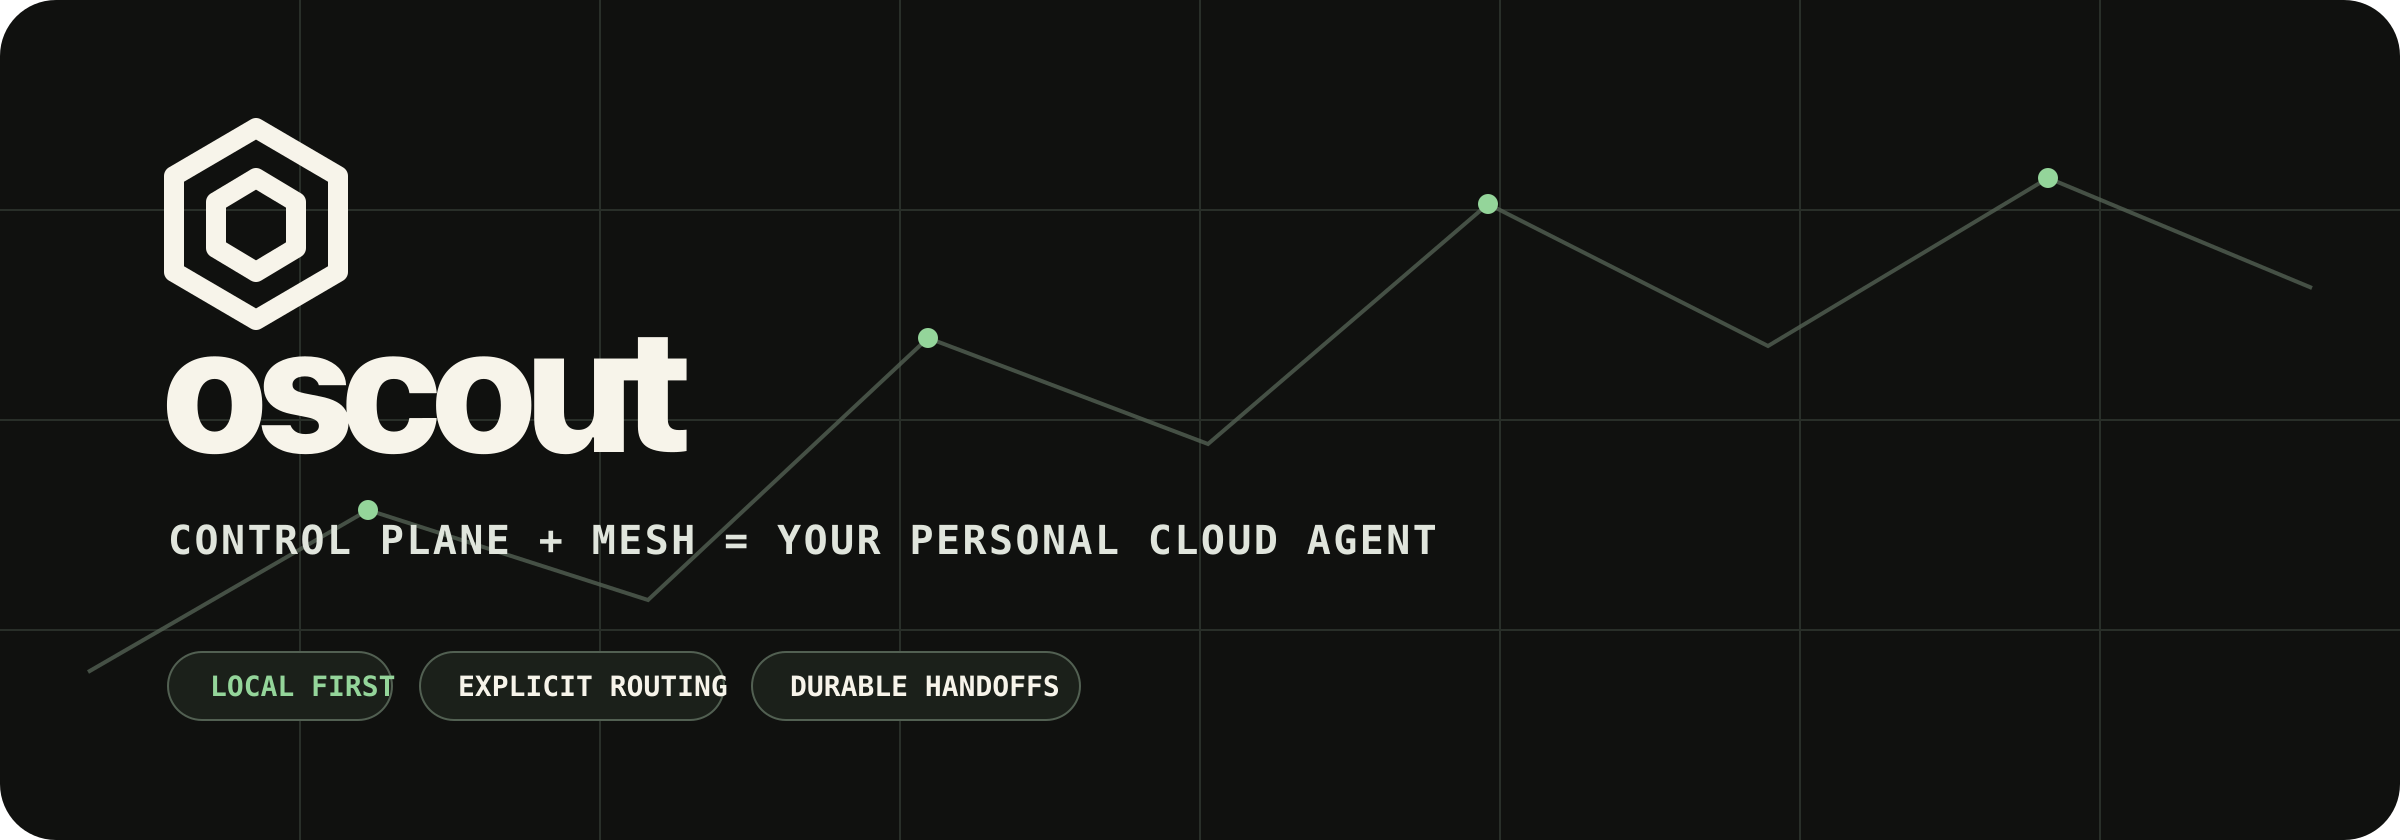
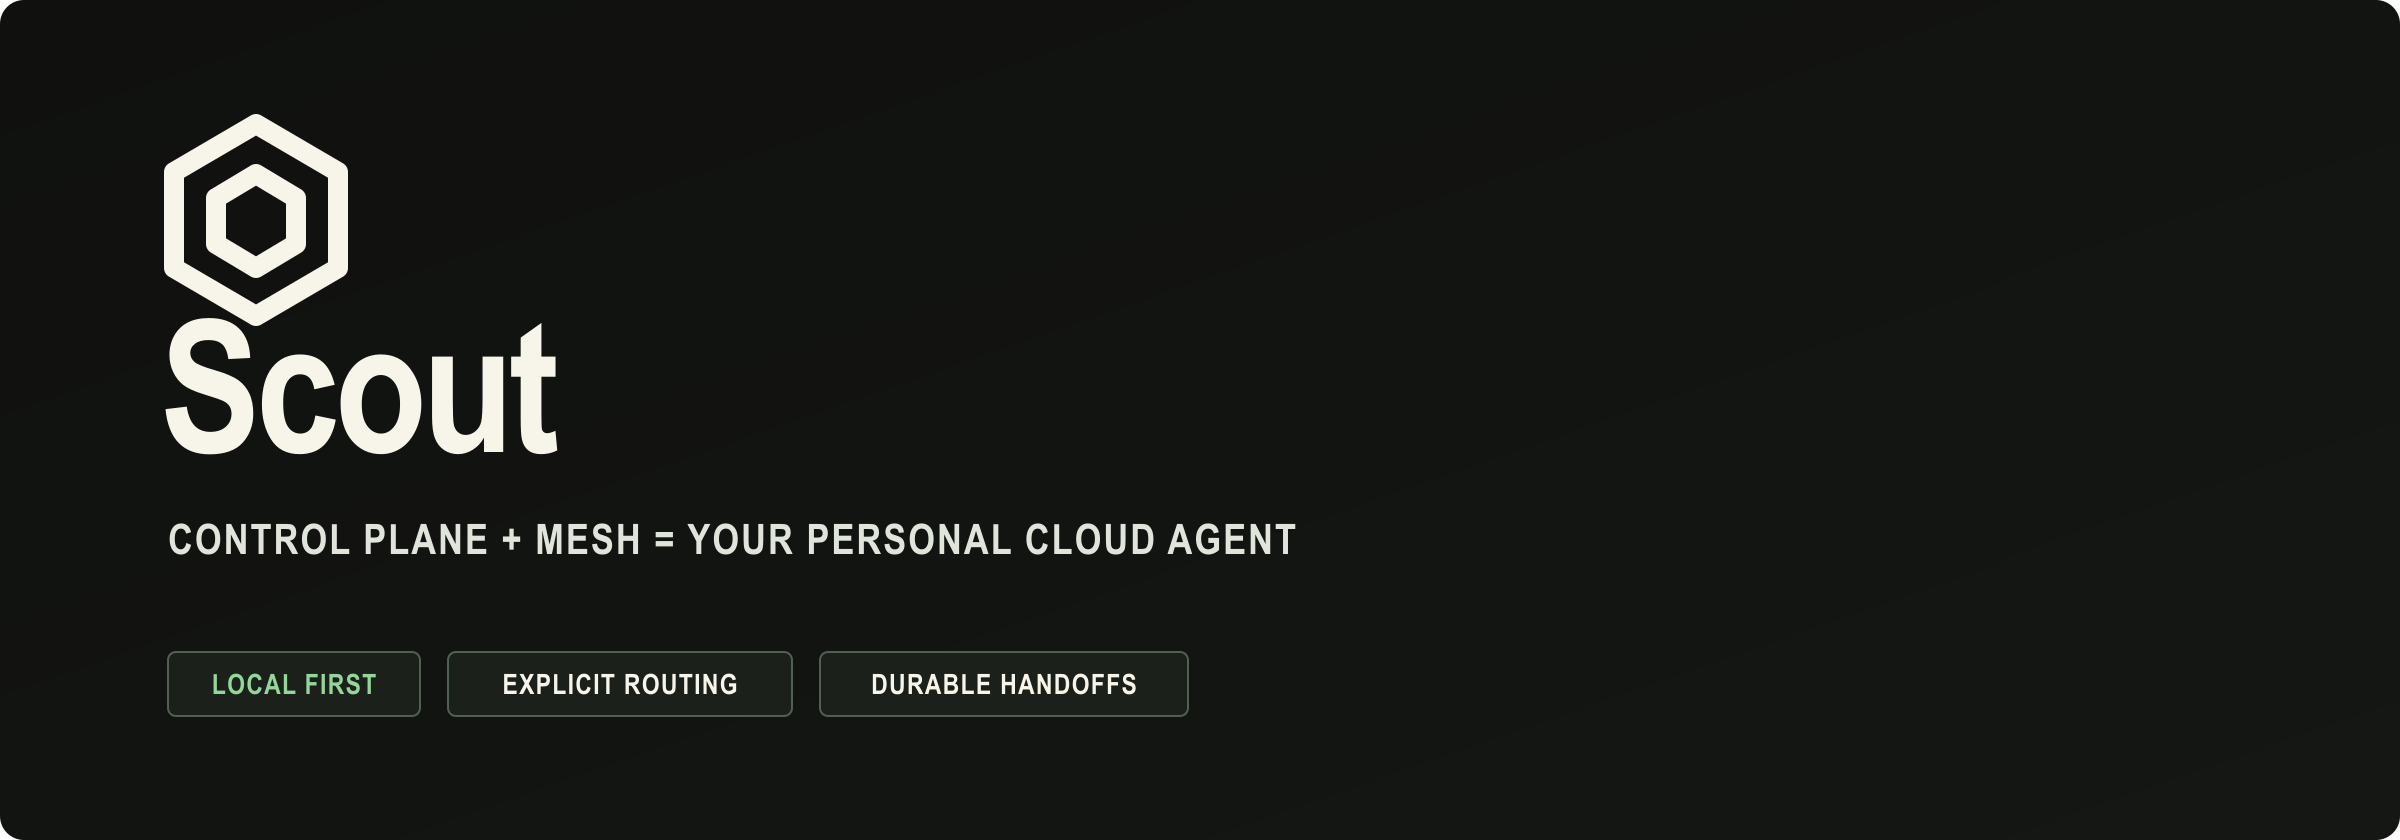
🎨 Tighten Scout's organization brand (#2)

diff --git a/profile/README.md b/profile/README.md
@@ -1,5 +1,5 @@
 <p align="center">
-  <img src="./assets/org-hero.svg" alt="oscout — open infrastructure for your personal cloud agent" width="100%" />
+  <img src="./assets/org-hero.svg" alt="Scout — open infrastructure for your personal cloud agent" width="100%" />
 </p>
 
 <p align="center">
